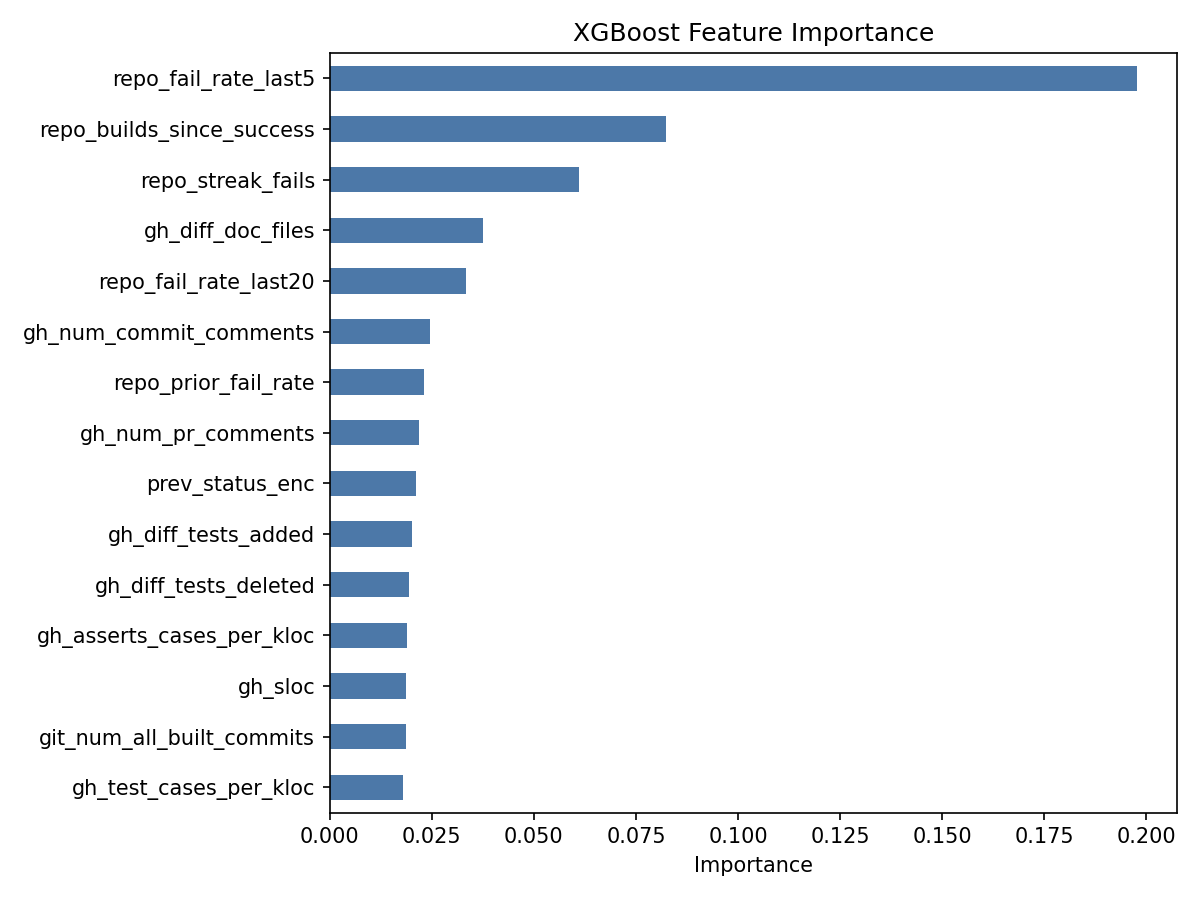
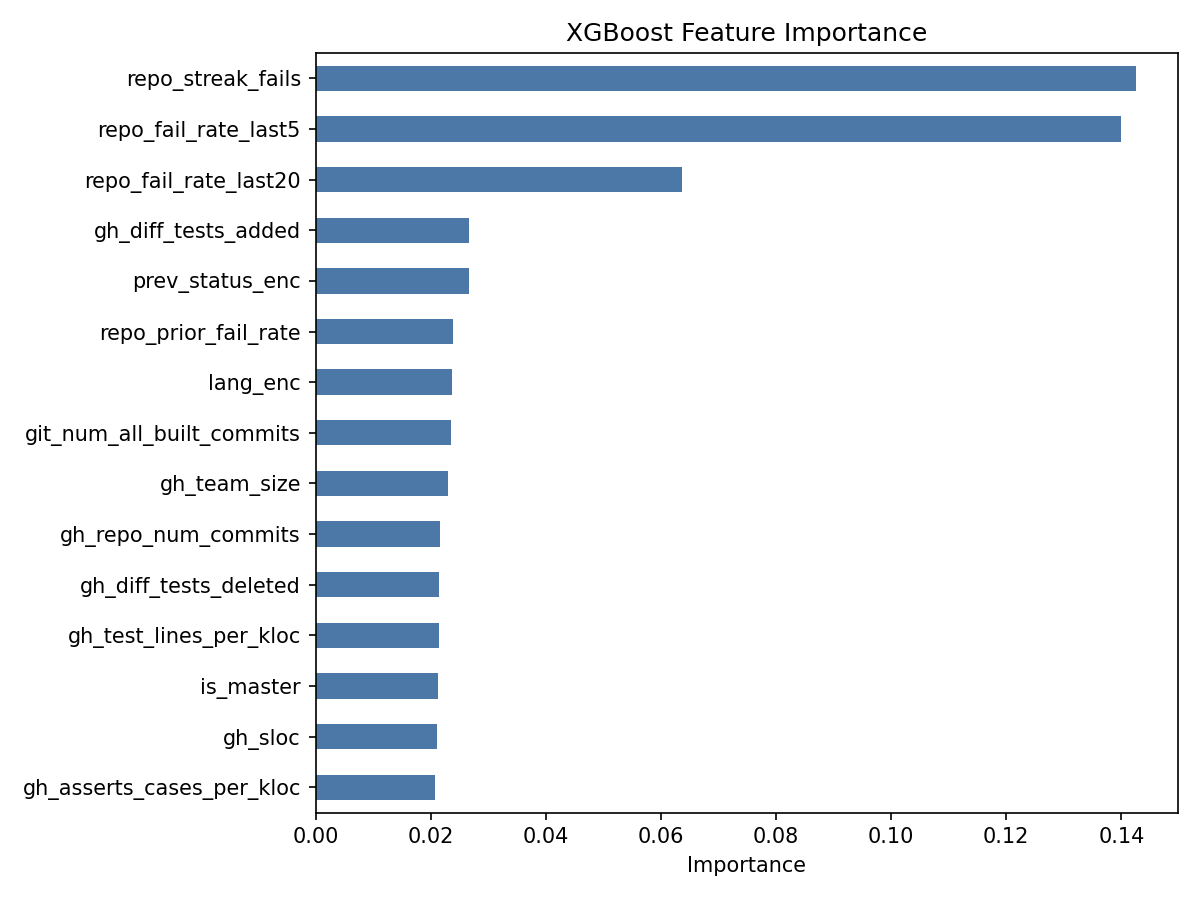
Regenerate results on the 39-feature schema with training-derived prior
Retrained tune, stack, evaluate, full and anomaly modes. The training-split
cold-start prior is 0.200 (previously hardcoded 0.35). Dropping the comment
and all-missing push features left performance unchanged: deployed
chronological AUC 0.8213 (was 0.8218), stacking dev AUC 0.9108 (was 0.9121).
The anomaly detector now matches the live 39-feature matrix.

diff --git a/reports/final_results.md b/reports/final_results.md
@@ -12,29 +12,37 @@ walk-forward (see below).
 Three rolling history features are included: `repo_fail_rate_last5`,
 `repo_fail_rate_last20`, and `repo_prior_fail_rate`. These are computed with the
 finish-time-safe heap protocol (only builds that finished strictly before the
-current build started), matching the Phase-1 rigor study.  Cold-start default
-is 0.0.
+current build started), matching the Phase-1 rigor study.  A repository's
+first builds have no completed history; their rates are filled with the
+**training split's build-level failure rate** (0.200 on the full-mode training
+window), saved with the model and reused at inference.  It replaced a
+hardcoded 0.35 global constant.
 
-43 features (37 original + 3 streak/gap + 3 previously unused pre-build columns).
-Hyperparameters tuned via `RandomizedSearchCV` (n_iter=25, 3-fold CV, F1 scoring) + LightGBM added.
+39 features (20 direct pre-build + 19 derived).  Four columns are excluded and
+blocked by the availability registry: `gh_num_pr_comments`,
+`gh_num_issue_comments` and `gh_num_commit_comments` are undated snapshots that
+can include comments written after the build, and `gh_num_commits_in_push` is
+entirely missing in this export.  Removing them cost nothing measurable
+(stacking AUC 0.912 → 0.911; deployed chronological AUC 0.8218 → 0.8213).
+
+Hyperparameters tuned via `RandomizedSearchCV` (n_iter=25, 3-fold CV, F1 scoring).
 Best RF: `max_depth=None, max_features=sqrt, class_weight=balanced, n_estimators=200`.
 Best XGB: `n_estimators=400, max_depth=10, lr=0.2, subsample=0.9, reg_lambda=2.0`.
 Best LGBM: `num_leaves=255, max_depth=10, lr=0.2, subsample=0.9, colsample_bytree=0.9`.
 
 | Model | Accuracy | Precision | Recall | F1 | AUC-ROC |
 |---|---:|---:|---:|---:|---:|
-| Stacking (RF+XGB+LGBM→LR) | 0.8981 | **0.8378** | 0.6394 | 0.7253 | **0.9121** |
-| XGBoost | 0.8883 | 0.7397 | 0.7238 | **0.7317** | 0.9027 |
-| Random Forest | 0.8938 | 0.8410 | 0.6112 | 0.6796 | 0.8940 |
-| LightGBM | 0.8635 | 0.6528 | 0.7510 | 0.6984 | 0.8913 |
-| Decision Tree | 0.7780 | 0.4822 | 0.7403 | 0.5840 | 0.8263 |
-| SVM | 0.7587 | 0.4484 | 0.6374 | 0.5265 | 0.7760 |
+| Stacking (RF+XGB+LGBM→LR) | 0.8972 | 0.8370 | 0.6353 | 0.7223 | **0.9108** |
+| Random Forest | 0.8942 | **0.8400** | 0.6143 | 0.7096 | 0.9069 |
+| XGBoost | 0.8920 | 0.7538 | 0.7229 | **0.7380** | 0.9013 |
+| LightGBM | 0.8769 | 0.6990 | 0.7291 | 0.7138 | 0.8976 |
+| Decision Tree | 0.7691 | 0.4693 | 0.7407 | 0.5746 | 0.8247 |
+| SVM | 0.7583 | 0.4468 | 0.6229 | 0.5204 | 0.7723 |
 
-Stacking ensemble (StackingClassifier, cv=5) has the highest AUC (0.9121) and
-precision (0.8378), meaning fewer false alarms.  XGBoost leads on F1 (0.7317)
-at the default 0.5 threshold; threshold tuning on the stacking model would likely
-close that gap.  Use `--mode stack` to train it; SHAP explanations on the stack
-use the XGB base estimator via TreeExplainer.
+Stacking ensemble (StackingClassifier, cv=5) has the highest AUC (0.9108).
+XGBoost leads on F1 (0.7380) at the default 0.5 threshold.  Use `--mode stack`
+to train the stack; SHAP explanations on it use the XGB base estimator via
+TreeExplainer.  Source: `artifacts/model_results.csv`.
 
 No `tr_log_*` post-build field was used as a prediction feature.
 
@@ -51,9 +59,9 @@ the Phase-1 protocol or cited as a valid headline AUC.
 
 | Train rows | Test rows | Threshold | Precision | Recall | F1 | AUC |
 |---:|---:|---:|---:|---:|---:|---:|
-| 2,849,851 | 712,463 | 0.30 | 0.3751 | 0.8142 | **0.5136** | **0.8218** |
+| 2,849,851 | 712,463 | 0.30 | 0.3767 | 0.8142 | **0.5151** | **0.8213** |
 
-Alert rate at this threshold: 42.5% of builds flagged; failure capture rate
+Alert rate at this threshold: 42.4% of builds flagged; failure capture rate
 (recall) 81.4%.  The threshold was chosen to maximise recall subject to a ≤40%
 alert-rate ceiling and a precision floor equal to the base failure rate.
 

diff --git a/reports/enhanced_full_temporal_evaluation.md b/reports/enhanced_full_temporal_evaluation.md
@@ -4,6 +4,6 @@ The deployable Random Forest uses the expanded availability-guarded pre-build fe
 
 | Train rows | Test rows | Threshold | Precision | Recall | F1 | AUC | Alert rate | Failure capture rate |
 | ---: | ---: | ---: | ---: | ---: | ---: | ---: | ---: | ---: |
-| 2,849,851 | 712,463 | 0.30 | 0.3751 | 0.8142 | 0.5136 | 0.8218 | 0.4254 | 0.8142 |
+| 2,849,851 | 712,463 | 0.30 | 0.3767 | 0.8142 | 0.5151 | 0.8213 | 0.4236 | 0.8142 |
 
 Train range: 2011-04-16 11:24:39+00:00 to 2016-03-07 14:53:32+00:00. Test range: 2016-03-07 14:53:32+00:00 to 2016-08-31 23:59:27+00:00. This result is a chronological within-dataset evaluation, not proof of cross-repository generalization.
